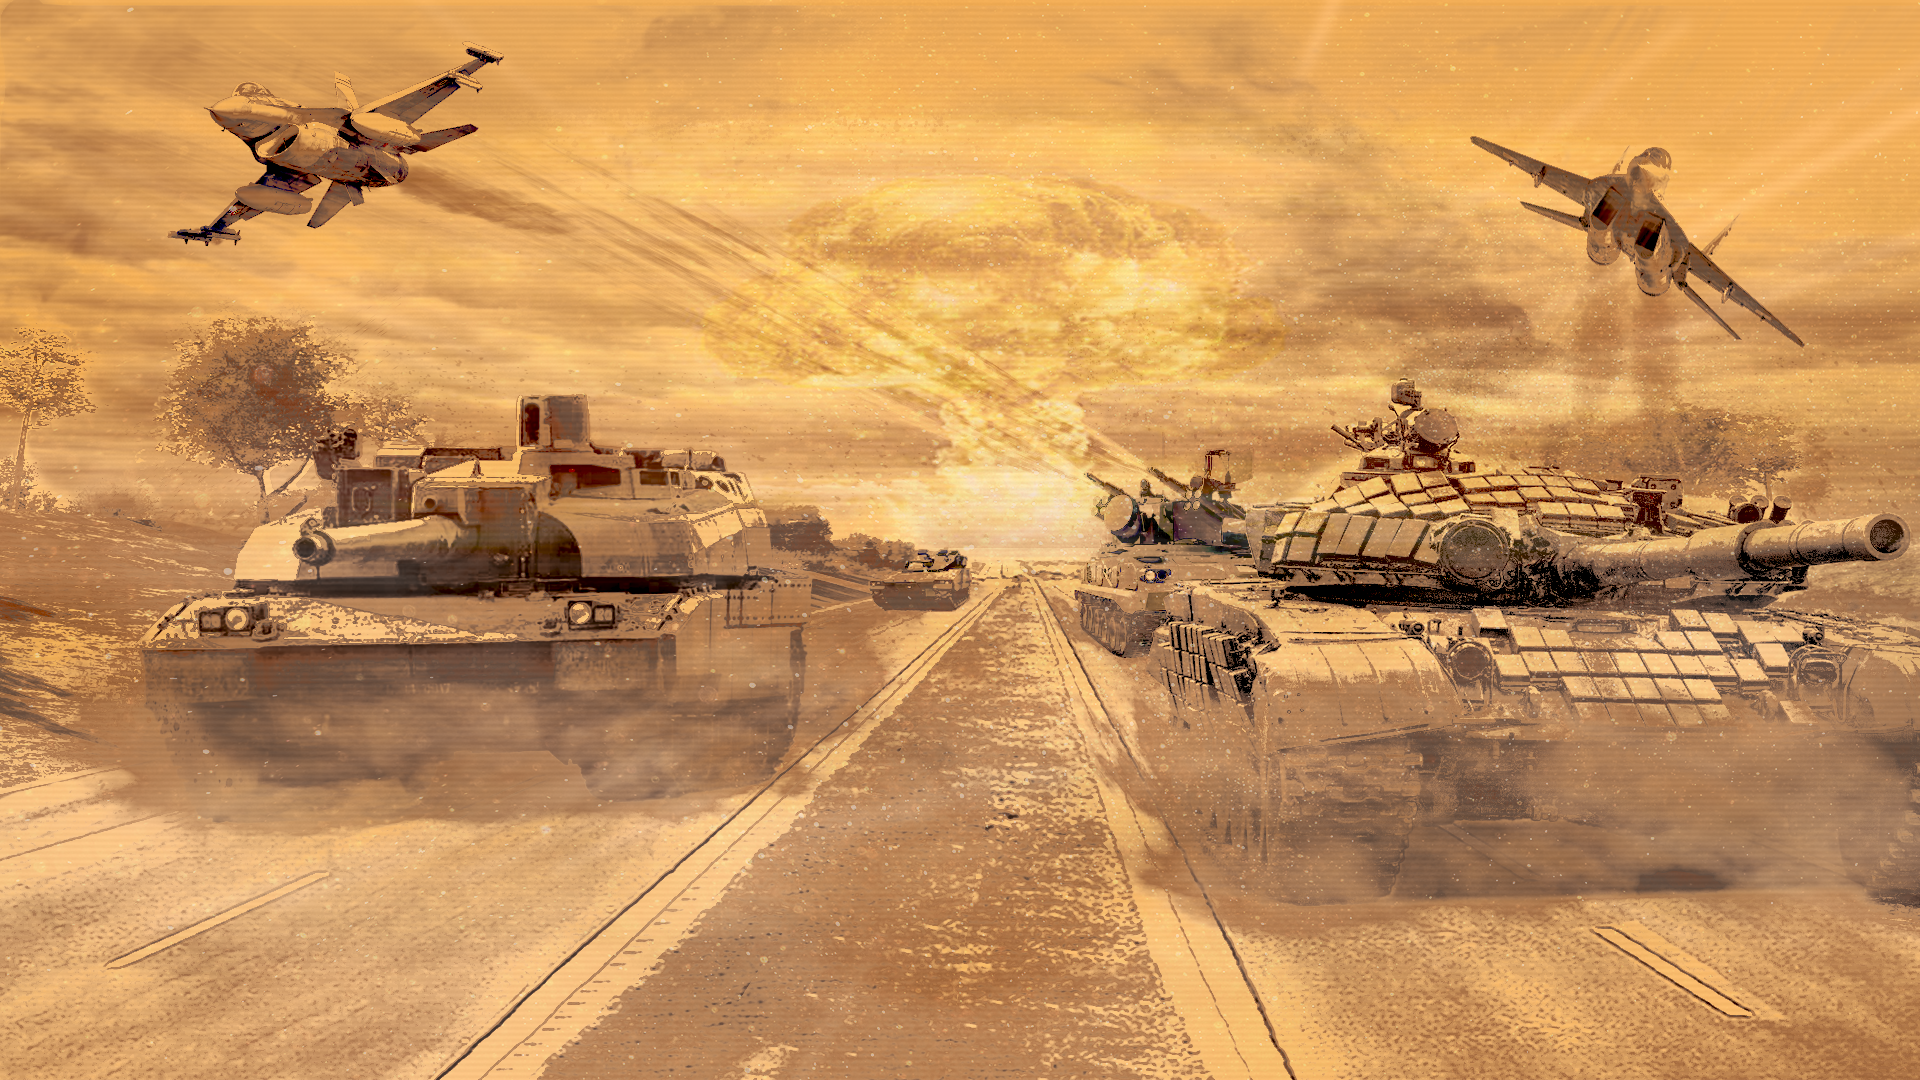
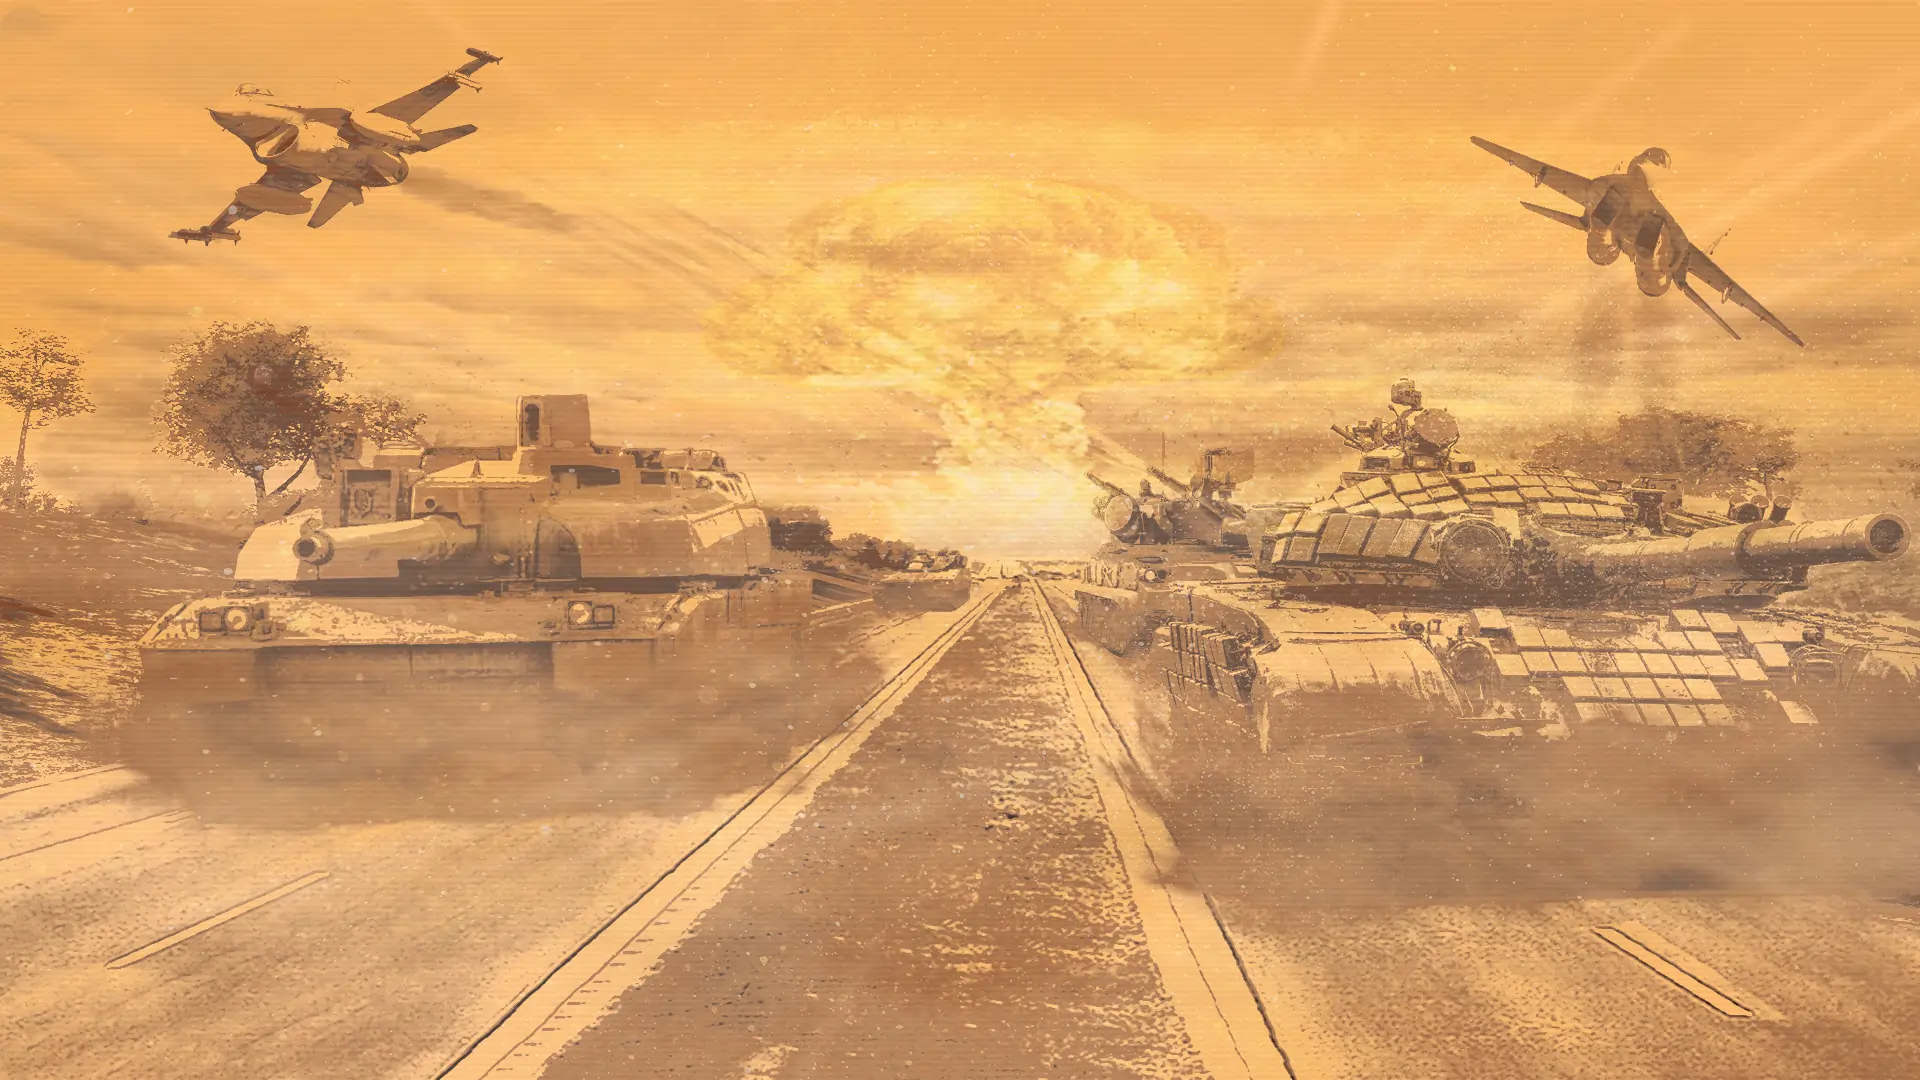
compressed image

diff --git a/styles.css b/styles.css
@@ -5,7 +5,7 @@ body {
   padding: 2rem;
   display: flex;
   justify-content: center;
-  background-image: url("images/background2.webp");
+  background-image: url("images/background.webp");
   background-size: cover;
 }
 

diff --git a/index.html b/index.html
@@ -2,7 +2,7 @@
 <html lang="en">
   <head>
     <meta charset="UTF-8" />
-    <title>Unit Match</title>
+    <title>WARGAMle</title>
     <link rel="stylesheet" href="styles.css" />
   </head>
 
